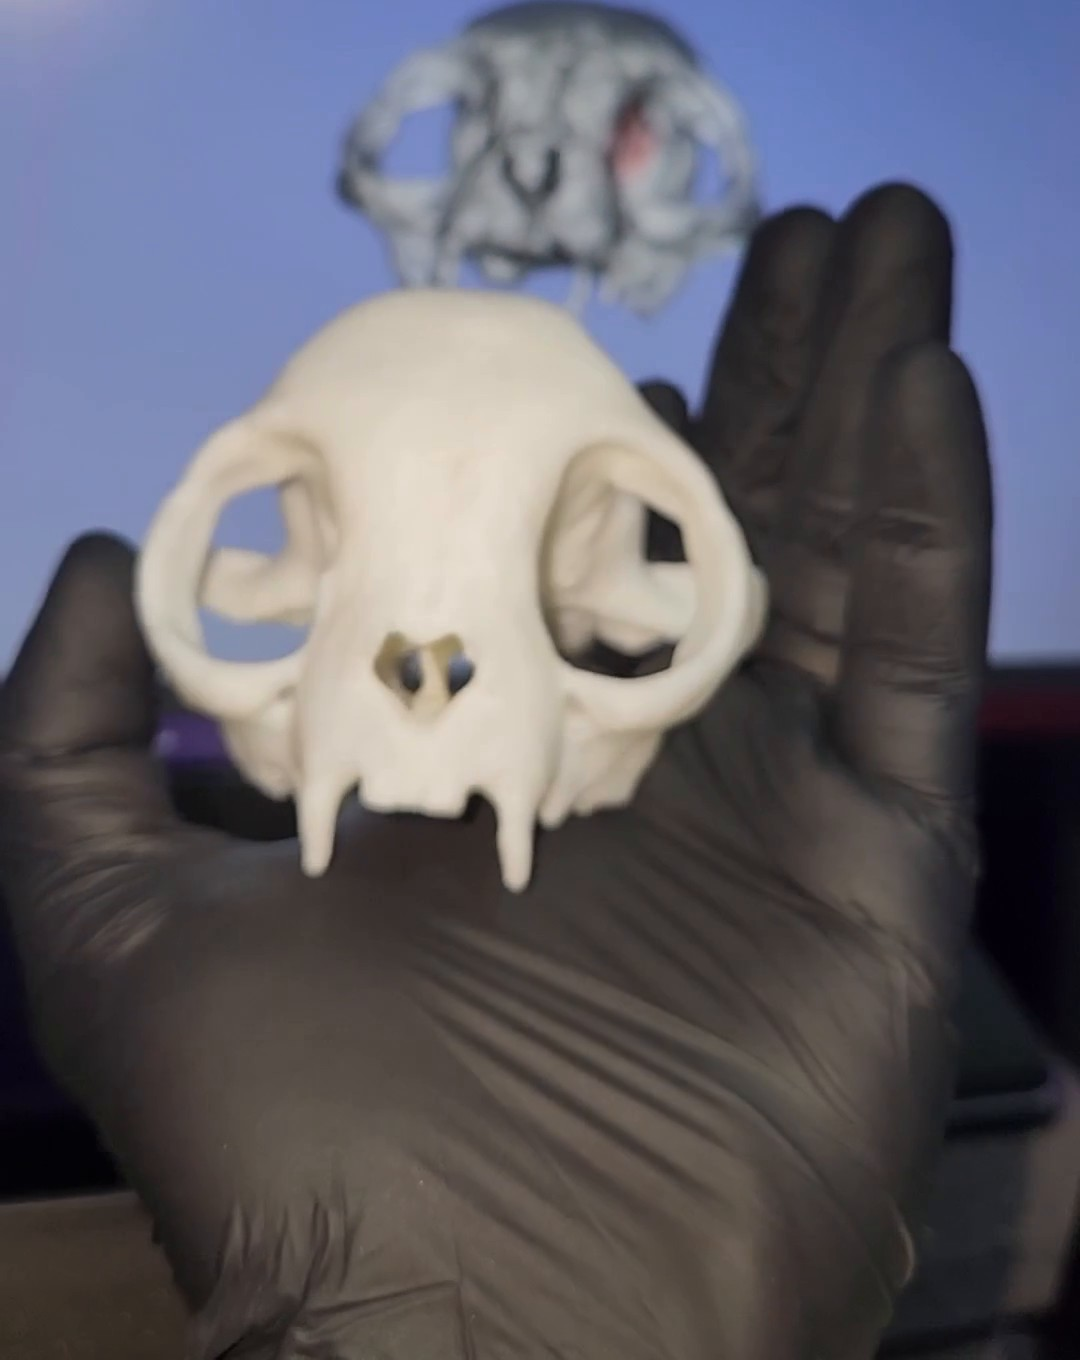
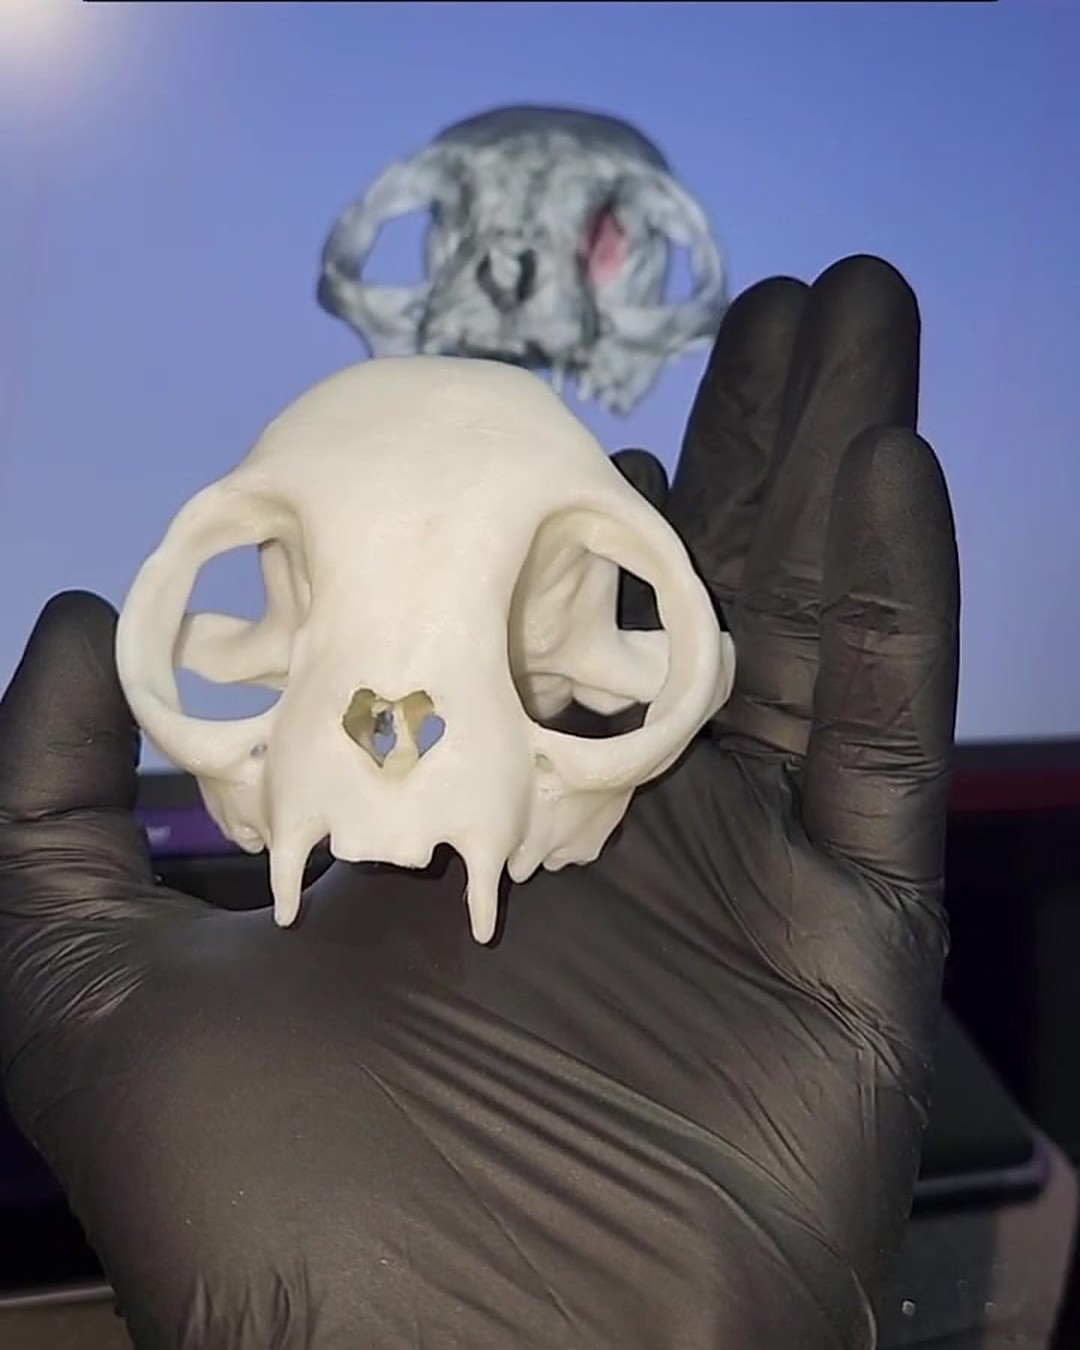
Menu ☰ no celular, página inicial mais direta e foto do crânio mais nítida
Claude-Session: https://claude.ai/code/session_0169P7kFYmCWzJ5yBai2GrJG

diff --git a/public/index.html b/public/index.html
@@ -86,7 +86,7 @@ footer{border-top:1px solid var(--line);padding-block:22px 40px;color:var(--soft
 footer .wrap{display:flex;flex-wrap:wrap;justify-content:space-between;gap:8px}
 
 @media (max-width:820px){
-  nav.menu a:not(.btn){display:none}
+  
   .hero{grid-template-columns:1fr;gap:28px;padding-block:32px 44px}
   .hero figure{max-height:440px;aspect-ratio:4/5}
   .paths,.steps,.about,.contact{grid-template-columns:1fr}
@@ -113,6 +113,21 @@ footer a{color:var(--soft)}
 .story>p:not(.hook){text-align:justify;hyphens:none}
 .me>*{max-width:400px}.creds2{margin:0;display:grid;border-top:1px solid var(--line)}.creds2 div{padding:10px 0;border-bottom:1px solid var(--line);display:grid;gap:2px}.creds2 dt{font:500 11px var(--mono);letter-spacing:.12em;text-transform:uppercase;color:var(--soft)}.creds2 dd{margin:0;color:var(--ink);font-size:16px;line-height:1.35}
 .creds li{text-align:justify;hyphens:none}
+
+.burger{display:none;width:44px;height:44px;border:1px solid #4A4C4A;border-radius:8px;background:transparent;color:var(--ink);cursor:pointer;align-items:center;justify-content:center}
+.burger span,.burger span::before,.burger span::after{display:block;width:20px;height:2px;background:currentColor;border-radius:2px;position:relative;content:"";transition:transform .2s}
+.burger span::before{position:absolute;top:-6px}.burger span::after{position:absolute;top:6px}
+.burger[aria-expanded="true"] span{background:transparent}.burger[aria-expanded="true"] span::before{transform:translateY(6px) rotate(45deg)}.burger[aria-expanded="true"] span::after{transform:translateY(-6px) rotate(-45deg)}
+.mnav{display:none}
+@media (max-width:820px){
+  nav.menu{display:none}
+  .burger{display:inline-flex}
+  .mnav{position:absolute;left:0;right:0;top:100%;background:#0A0A0A;border-bottom:1px solid var(--line);padding:8px 16px 18px;display:grid;gap:2px}
+  .mnav[hidden]{display:none}
+  .mnav a{display:block;text-decoration:none;color:var(--ink);font:800 20px var(--display);padding:14px 4px;border-bottom:1px solid var(--line)}
+  .mnav a.wa{margin-top:12px;border:0;background:var(--ink);color:var(--paper);border-radius:8px;text-align:center;font-size:17px}
+}
+header.top .wrap{position:relative}
 </style>
 </head>
 <body>
@@ -124,6 +139,14 @@ footer a{color:var(--soft)}
     <a href="#sobre">Quem está por trás</a>
     <a class="btn solid" href="https://wa.me/5518996911074?text=Ol%C3%A1!%20Vi%20o%20site%20da%203D%20Max%20e%20quero%20saber%20mais.">WhatsApp</a>
   </nav>
+  <button class="burger" id="burger" type="button" aria-label="Abrir menu" aria-expanded="false" aria-controls="mnav"><span></span></button>
+  <div class="mnav" id="mnav" hidden>
+    <a href="/catalogo/">Catálogo e preços</a>
+    <a href="/cirurgia/">Para cirurgia</a>
+    <a href="#sobre">Quem está por trás</a>
+    <a class="wa" href="https://wa.me/5518996911074?text=Ol%C3%A1!%20Vi%20o%20site%20da%203D%20Max%20e%20quero%20saber%20mais.">Chamar no WhatsApp</a>
+  </div>
+
 </div></header>
 
 <main>
@@ -133,24 +156,20 @@ footer a{color:var(--soft)}
     <div class="eyebrow">3D Max · Biomodelos veterinários</div>
     <h1>Biomodelos anatômicos impressos em 3D</h1>
     <p class="lede">Cada modelo é reconstruído a partir de exames tomográficos e segmentado estrutura por estrutura por um Médico-Veterinário radiologista.</p>
-    <div class="acts">
-      <a class="btn solid" href="/catalogo/">Ver catálogo e preços</a>
-      <a class="btn" href="/cirurgia/">Reconstrução para cirurgia</a>
-    </div>
   </div>
   <figure><img src="img/hero.jpg" alt="Coração canino impresso em 3D, corte tomográfico"></figure>
 </div>
 
 <section><div class="wrap">
-  <div class="sechead"><div class="eyebrow">O que fazemos</div><h2>Dois jeitos de usar a anatomia em 3D</h2></div>
+  <div class="sechead"><div class="eyebrow">O que você procura?</div><h2>Escolha o seu caminho</h2></div>
   <div class="paths">
     <a class="path" href="/catalogo/">
       <div class="ph"><img src="img/coracao-4c-g.jpg" alt="Coração canino em corte de quatro câmaras"><img src="img/carpo-g.jpg" alt="Carpo de cão impresso em 3D"></div>
-      <div class="bd"><span class="tag">Para estudar</span><h3>Modelos de estudo</h3><p>Coração canino desmontável em quatro cortes, ossos e articulações. Para estudantes, professores e quem quer ligar a anatomia à imagem.</p><span class="go">Ver catálogo →</span></div>
+      <div class="bd"><span class="tag">Para estudar</span><h3>Modelos de estudo</h3><p>Coração canino desmontável em quatro cortes, ossos e articulações. Para estudantes, professores e quem quer ligar a anatomia à imagem.</p><span class="go">Ver modelos e preços →</span></div>
     </a>
     <a class="path" id="cirurgia" href="/cirurgia/">
       <div class="ph"><img src="img/caso-tela.jpg" alt="Crânio felino impresso ao lado do modelo 3D na tela"><img src="img/caso-mao.jpg" alt="Crânio felino impresso em 3D na mão"></div>
-      <div class="bd"><span class="tag">Sob consulta</span><h3>Reconstrução e impressão 3D para planejamento cirúrgico</h3><p>O cirurgião envia a tomografia do paciente. Fazemos a reconstrução 3D e imprimimos o modelo para ele planejar a cirurgia com a anatomia do caso nas mãos.</p><span class="go">Ver como funciona →</span></div>
+      <div class="bd"><span class="tag">Para cirurgia · sob consulta</span><h3>Reconstrução e impressão 3D para planejamento cirúrgico</h3><p>O cirurgião envia a tomografia do paciente. Fazemos a reconstrução 3D e imprimimos o modelo para ele planejar a cirurgia com a anatomia do caso nas mãos.</p><span class="go">Ver como enviar um caso →</span></div>
     </a>
   </div>
 </div></section>
@@ -187,7 +206,7 @@ footer a{color:var(--soft)}
 </div></section>
 
 <section id="contato"><div class="wrap contact">
-  <div class="sechead" style="margin:0"><div class="eyebrow">Contato</div><h2>Chame no WhatsApp para fazer o seu pedido</h2><p>Tire dúvidas, peça um orçamento e combine o envio.</p></div>
+  <div class="sechead" style="margin:0"><div class="eyebrow">Contato</div><h2>Ficou com alguma dúvida?</h2><p>Para comprar, monte o seu pedido no catálogo. Para dúvidas ou orçamento de um caso cirúrgico, chame no WhatsApp.</p></div>
   <div class="contacts">
     <a class="wa" href="https://wa.me/5518996911074?text=Ol%C3%A1!%20Vi%20o%20site%20da%203D%20Max%20e%20quero%20saber%20mais."><i class="logo-ico lwa"></i>(18) 99691-1074</a>
     <a class="ig" href="https://instagram.com/3dmax_rm"><i class="logo-ico lig"></i>@3dmax_rm</a>
@@ -196,5 +215,8 @@ footer a{color:var(--soft)}
 </main>
 
 <footer><div class="wrap"><span class="footbrand">3D Max · Biomodelos anatômicos impressos em 3D</span><div class="legalline"><span>3D Max é uma marca da Raio Max · CNPJ 39.364.290/0001-98</span><a href="/privacidade/">Política de privacidade</a></div></div></footer>
+<script>(()=>{const b=document.getElementById('burger'),m=document.getElementById('mnav');if(!b||!m)return;
+const set=o=>{b.setAttribute('aria-expanded',o);m.hidden=!o;};b.addEventListener('click',()=>set(m.hidden));
+m.addEventListener('click',e=>{if(e.target.closest('a'))set(false);});document.addEventListener('keydown',e=>{if(e.key==='Escape')set(false);});})();</script>
 </body>
 </html>

diff --git a/public/privacidade/index.html b/public/privacidade/index.html
@@ -86,7 +86,7 @@ footer{border-top:1px solid var(--line);padding-block:22px 40px;color:var(--soft
 footer .wrap{display:flex;flex-wrap:wrap;justify-content:space-between;gap:8px}
 
 @media (max-width:820px){
-  nav.menu a:not(.btn){display:none}
+  
   .hero{grid-template-columns:1fr;gap:28px;padding-block:32px 44px}
   .hero figure{max-height:440px;aspect-ratio:4/5}
   .paths,.steps,.about,.contact{grid-template-columns:1fr}
@@ -103,6 +103,21 @@ footer .wrap{display:flex;flex-wrap:wrap;justify-content:space-between;gap:8px}
 footer .legalline{width:100%;display:flex;flex-wrap:wrap;justify-content:space-between;gap:8px;padding-top:8px;border-top:1px solid var(--line);margin-top:4px}
 footer a{color:var(--soft)}
 .footbrand{width:100%;text-align:center}
+
+.burger{display:none;width:44px;height:44px;border:1px solid #4A4C4A;border-radius:8px;background:transparent;color:var(--ink);cursor:pointer;align-items:center;justify-content:center}
+.burger span,.burger span::before,.burger span::after{display:block;width:20px;height:2px;background:currentColor;border-radius:2px;position:relative;content:"";transition:transform .2s}
+.burger span::before{position:absolute;top:-6px}.burger span::after{position:absolute;top:6px}
+.burger[aria-expanded="true"] span{background:transparent}.burger[aria-expanded="true"] span::before{transform:translateY(6px) rotate(45deg)}.burger[aria-expanded="true"] span::after{transform:translateY(-6px) rotate(-45deg)}
+.mnav{display:none}
+@media (max-width:820px){
+  nav.menu{display:none}
+  .burger{display:inline-flex}
+  .mnav{position:absolute;left:0;right:0;top:100%;background:#0A0A0A;border-bottom:1px solid var(--line);padding:8px 16px 18px;display:grid;gap:2px}
+  .mnav[hidden]{display:none}
+  .mnav a{display:block;text-decoration:none;color:var(--ink);font:800 20px var(--display);padding:14px 4px;border-bottom:1px solid var(--line)}
+  .mnav a.wa{margin-top:12px;border:0;background:var(--ink);color:var(--paper);border-radius:8px;text-align:center;font-size:17px}
+}
+header.top .wrap{position:relative}
 </style>
 </head>
 <body>
@@ -114,6 +129,14 @@ footer a{color:var(--soft)}
     <a href="/#sobre">Quem está por trás</a>
     <a class="btn solid" href="https://wa.me/5518996911074?text=Ol%C3%A1!%20Vi%20o%20site%20da%203D%20Max%20e%20quero%20saber%20mais.">WhatsApp</a>
   </nav>
+  <button class="burger" id="burger" type="button" aria-label="Abrir menu" aria-expanded="false" aria-controls="mnav"><span></span></button>
+  <div class="mnav" id="mnav" hidden>
+    <a href="/catalogo/">Catálogo e preços</a>
+    <a href="/cirurgia/">Para cirurgia</a>
+    <a href="/#sobre">Quem está por trás</a>
+    <a class="wa" href="https://wa.me/5518996911074?text=Ol%C3%A1!%20Vi%20o%20site%20da%203D%20Max%20e%20quero%20saber%20mais.">Chamar no WhatsApp</a>
+  </div>
+
 </div></header>
 <main><div class="wrap legal">
 <div><div class="eyebrow">3D Max</div><h1>Política de privacidade</h1><p class="upd" style="margin-top:10px">Atualizada em 26 de novembro de 2026</p></div>
@@ -141,5 +164,8 @@ footer a{color:var(--soft)}
 <div><h2>Seus direitos</h2><p>Você pode pedir para ver, corrigir ou apagar seus dados. É só escrever para <b>biomodelos_3dmax@outlook.com</b> ou chamar no WhatsApp <b>(18) 99691-1074</b>.</p></div>
 </div></main>
 <footer><div class="wrap"><span class="footbrand">3D Max · Biomodelos anatômicos impressos em 3D</span><div class="legalline"><span>3D Max é uma marca da Raio Max · CNPJ 39.364.290/0001-98</span><a href="/privacidade/">Política de privacidade</a></div></div></footer>
+<script>(()=>{const b=document.getElementById('burger'),m=document.getElementById('mnav');if(!b||!m)return;
+const set=o=>{b.setAttribute('aria-expanded',o);m.hidden=!o;};b.addEventListener('click',()=>set(m.hidden));
+m.addEventListener('click',e=>{if(e.target.closest('a'))set(false);});document.addEventListener('keydown',e=>{if(e.key==='Escape')set(false);});})();</script>
 </body>
 </html>

diff --git a/public/cirurgia/index.html b/public/cirurgia/index.html
@@ -86,7 +86,7 @@ footer{border-top:1px solid var(--line);padding-block:22px 40px;color:var(--soft
 footer .wrap{display:flex;flex-wrap:wrap;justify-content:space-between;gap:8px}
 
 @media (max-width:820px){
-  nav.menu a:not(.btn){display:none}
+  
   .hero{grid-template-columns:1fr;gap:28px;padding-block:32px 44px}
   .hero figure{max-height:440px;aspect-ratio:4/5}
   .paths,.steps,.about,.contact{grid-template-columns:1fr}
@@ -124,6 +124,21 @@ footer .wrap{display:flex;flex-wrap:wrap;justify-content:space-between;gap:8px}
 footer .legalline{width:100%;display:flex;flex-wrap:wrap;justify-content:space-between;gap:8px;padding-top:8px;border-top:1px solid var(--line);margin-top:4px}
 footer a{color:var(--soft)}
 .footbrand{width:100%;text-align:center}
+
+.burger{display:none;width:44px;height:44px;border:1px solid #4A4C4A;border-radius:8px;background:transparent;color:var(--ink);cursor:pointer;align-items:center;justify-content:center}
+.burger span,.burger span::before,.burger span::after{display:block;width:20px;height:2px;background:currentColor;border-radius:2px;position:relative;content:"";transition:transform .2s}
+.burger span::before{position:absolute;top:-6px}.burger span::after{position:absolute;top:6px}
+.burger[aria-expanded="true"] span{background:transparent}.burger[aria-expanded="true"] span::before{transform:translateY(6px) rotate(45deg)}.burger[aria-expanded="true"] span::after{transform:translateY(-6px) rotate(-45deg)}
+.mnav{display:none}
+@media (max-width:820px){
+  nav.menu{display:none}
+  .burger{display:inline-flex}
+  .mnav{position:absolute;left:0;right:0;top:100%;background:#0A0A0A;border-bottom:1px solid var(--line);padding:8px 16px 18px;display:grid;gap:2px}
+  .mnav[hidden]{display:none}
+  .mnav a{display:block;text-decoration:none;color:var(--ink);font:800 20px var(--display);padding:14px 4px;border-bottom:1px solid var(--line)}
+  .mnav a.wa{margin-top:12px;border:0;background:var(--ink);color:var(--paper);border-radius:8px;text-align:center;font-size:17px}
+}
+header.top .wrap{position:relative}
 </style>
 </head>
 <body>
@@ -135,6 +150,14 @@ footer a{color:var(--soft)}
     <a href="/#sobre">Quem está por trás</a>
     <a class="btn solid" href="https://wa.me/5518996911074?text=Ol%C3%A1!%20Vi%20o%20site%20da%203D%20Max%20e%20quero%20saber%20mais.">WhatsApp</a>
   </nav>
+  <button class="burger" id="burger" type="button" aria-label="Abrir menu" aria-expanded="false" aria-controls="mnav"><span></span></button>
+  <div class="mnav" id="mnav" hidden>
+    <a href="/catalogo/">Catálogo e preços</a>
+    <a href="/cirurgia/">Para cirurgia</a>
+    <a href="/#sobre">Quem está por trás</a>
+    <a class="wa" href="https://wa.me/5518996911074?text=Ol%C3%A1!%20Vi%20o%20site%20da%203D%20Max%20e%20quero%20saber%20mais.">Chamar no WhatsApp</a>
+  </div>
+
 </div></header>
 <main>
 <div class="wrap hero svc-hero">
@@ -204,5 +227,8 @@ footer a{color:var(--soft)}
 </div></section>
 </main>
 <footer><div class="wrap"><span class="footbrand">3D Max · Biomodelos anatômicos impressos em 3D</span><div class="legalline"><span>3D Max é uma marca da Raio Max · CNPJ 39.364.290/0001-98</span><a href="/privacidade/">Política de privacidade</a></div></div></footer>
+<script>(()=>{const b=document.getElementById('burger'),m=document.getElementById('mnav');if(!b||!m)return;
+const set=o=>{b.setAttribute('aria-expanded',o);m.hidden=!o;};b.addEventListener('click',()=>set(m.hidden));
+m.addEventListener('click',e=>{if(e.target.closest('a'))set(false);});document.addEventListener('keydown',e=>{if(e.key==='Escape')set(false);});})();</script>
 </body>
 </html>
